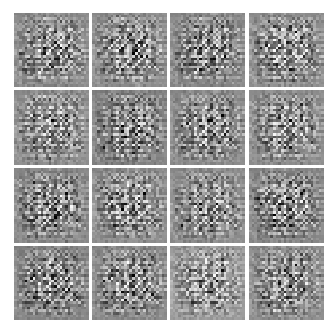
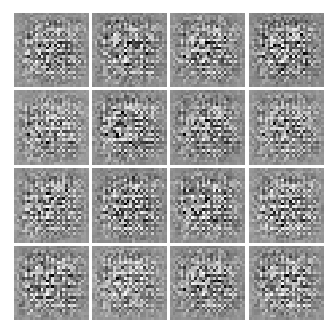
updates to params

diff --git a/cDCGAN.py b/cDCGAN.py
@@ -1,22 +1,32 @@
 import torch
 from torch import nn
 import torchvision.datasets
+from torchvision import transforms
 import numpy as np
 import numpy as np
 import matplotlib
 matplotlib.use('Agg')
 import matplotlib.pyplot as plt
-import torch.nn.functional as F
+# import torch.nn.functional as F
 import matplotlib.gridspec as gridspec
 batch_size = 128
 plt.rcParams['image.cmap'] = 'gray'
 #use_cuda = False
 use_cuda = True
-if use_cuda:
-    torch.set_default_tensor_type('torch.cuda.FloatTensor')
+try:
+    torch.set_default_tensor_type("torch.cuda.FloatTensor")
     torch.backends.cudnn.benchmark = True
+except TypeError:
+    use_cuda = False
+# if use_cuda:
+    # torch.set_default_tensor_type('torch.cuda.FloatTensor')
+    # torch.backends.cudnn.benchmark = True
 
-transform = torchvision.transforms.ToTensor()
+# transform = torchvision.transforms.ToTensor()
+transform = transforms.Compose([
+    transforms.ToTensor(),
+    transforms.Normalize(mean=(0.5, 0.5, 0.5), std=(0.5, 0.5, 0.5))
+    ])
 mnist_train = torchvision.datasets.MNIST('./MNIST_data', train=True, download=True, transform=transform)
 train_loader = torch.utils.data.DataLoader(mnist_train, batch_size=batch_size)
 mnist_test = torchvision.datasets.MNIST('./MNIST_data', train=False, download=True, transform=transform)
@@ -87,6 +97,12 @@ class Discriminator(nn.Module):
         self.fc3 = nn.Sequential(
             nn.Linear(64, 1),
             nn.Sigmoid())
+
+    # def normal_init(m, mean, std):
+    def weight_init(m, mean, std):
+        if isinstance(m, nn.ConvTranspose2d) or isinstance(m, nn.Conv2d):
+            m.weight.data.normal_(mean, std)
+            m.bias.data.zero_()
 
     def forward(self, input, labels):
         # print("input", input.shape)
@@ -161,6 +177,11 @@ class Generator(nn.Module):
         out = self.layer4(out)
         # print("out4", out.shape)
         return out
+    # def normal_init(m, mean, std):
+    def weight_init(m, mean, std):
+        if isinstance(m, nn.ConvTranspose2d) or isinstance(m, nn.Conv2d):
+            m.weight.data.normal_(mean, std)
+            m.bias.data.zero_()
 
 def create_optimizer(model, lr=.01, betas=None):
     if betas == None:
@@ -279,7 +300,9 @@ def train_gan(generator, discriminator, image_loader, epochs, num_train_batches=
     return generator, discriminator
 
 generator = Generator()
+generator.weight_init(mean=0.0, std=0.02)
 discriminator = Discriminator()
+discriminator.weight_init(mean=0.0, std=0.02)
 image_loader = train_loader
 epochs = 50
 num_train_batches = -1
